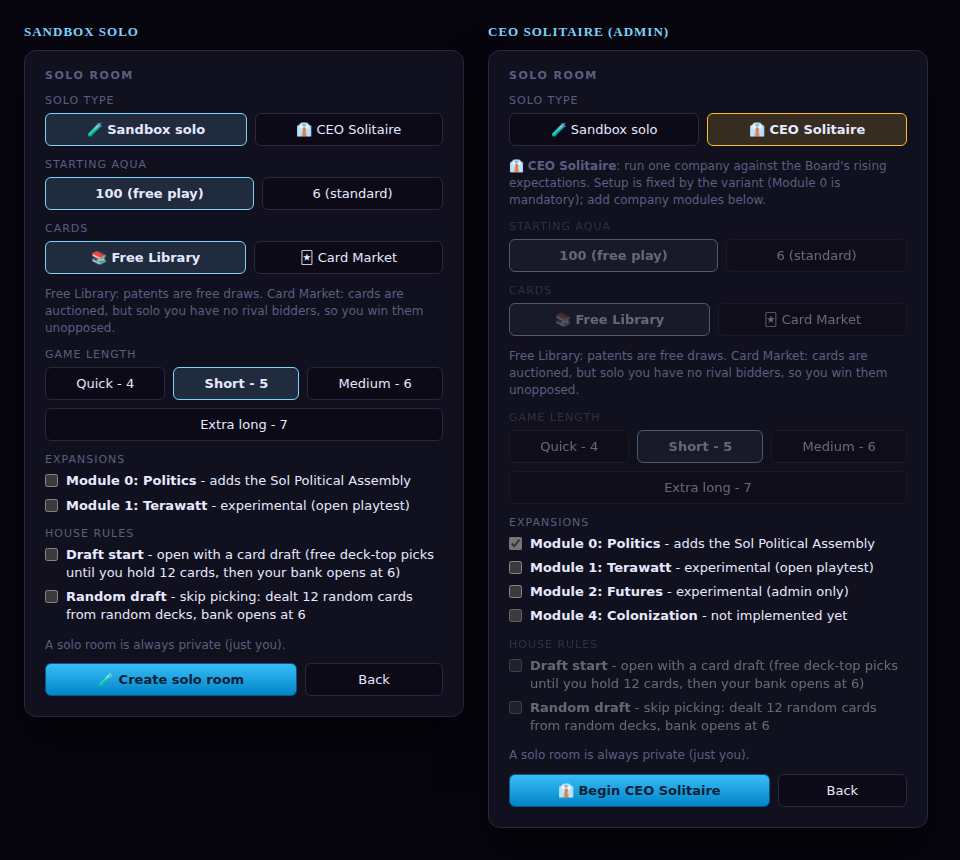
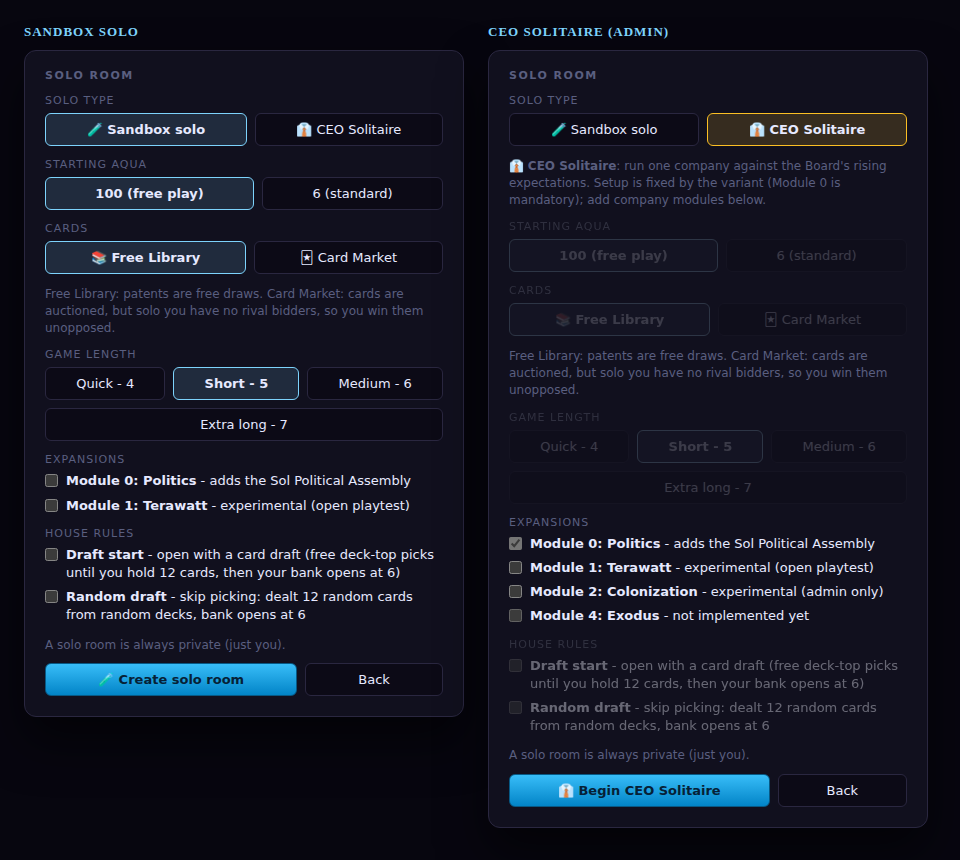
CEO Solitaire follow-ups: lock game length, rename M2/M4, fix MP-tab freighter/bernal inspect
- Wizard: CEO Solitaire now hard-locks the game-length group too (disables the
  controls, not just CSS dimming) and bumps style.css so the .is-locked rule
  loads in dev.
- Rename user-facing module labels: Module 2 -> "Colonization", Module 4 ->
  "Exodus" across the solo wizard, the multiplayer create form, the in-lobby
  settings, and the lobby module tags. (M2 still implements the Futures /
  Bernal / colonist mechanics internally; only the display name changed.)
- Multiplayer roster tab: the M1 Freighter and M2 Bernal stacks are now
  inspectable chips (with a fly-to button), opening the same read-only view the
  map-sprite tap uses. They appear only when their module is on and the player
  has produced them.

Claude-Session: https://claude.ai/code/session_01GasQXKae73oto4kmysDujH

diff --git a/js/game/browse.js b/js/game/browse.js
@@ -4742,7 +4742,7 @@ function buildMpConfigBlock(snapshot) {
   const tags = [];
   if (snapshot.m0) tags.push(['tag-m0', '🏛 M0 Politics']);
   if (snapshot.m1) tags.push(['tag-m1', '🚛 M1 Terawatt']);
-  if (snapshot.m2) tags.push(['tag-m2', '🔮 M2 Futures']);
+  if (snapshot.m2) tags.push(['tag-m2', '🔮 M2 Colonization']);
   if (snapshot.draftStart) tags.push(['tag-draft', '🃏 Draft start']);
   if (snapshot.randomDraft) tags.push(['tag-draft', '🎲 Random draft']);
   const tagWrap = document.createElement('div');
@@ -5250,6 +5250,32 @@ function buildMpPlayerDetail(host, p, isMe) {
       }));
     }
   }
+  // M1 Freighter + M2 Bernal stacks are open information too, but they only
+  // exist when their module is on AND the player has produced them, so they
+  // join the grid conditionally (a player with neither sees the original six).
+  // Each opens the same read-only inspector the map-sprite tap uses.
+  const snap = _onlineSnapshot;
+  if (snap && snap.m1 && p.freighter) {
+    const fr = p.freighter;
+    const carried = (fr.cardId ? 1 : 0) + (Array.isArray(fr.stack) ? fr.stack.length : 0);
+    grid.appendChild(mpStackChip(`🚛 Freighter`, new Array(carried).fill(0), {
+      who: p.name, hasLocation: true, findServerSite: fr.siteId || null,
+      hint: `Freighter at ${onlineSiteLabel(fr.siteId)}${(fr.tank | 0) ? `, ${fr.tank | 0} water` : ''}`,
+      onClick: () => openPlayerFreighterModalById(p.profileId),
+    }));
+  }
+  if (snap && snap.m2 && Array.isArray(p.bernals)) {
+    p.bernals.forEach((bn, i) => {
+      if (!bn) return;
+      const fig = bn.figure === 'stanford' ? 'Stanford' : 'Kalpana';
+      const carried = (bn.cardId ? 1 : 0) + (Array.isArray(bn.stack) ? bn.stack.length : 0);
+      grid.appendChild(mpStackChip(`🏙 ${fig}`, new Array(carried).fill(0), {
+        who: p.name, hasLocation: true, findServerSite: bn.siteId || null,
+        hint: `${fig} Bernal at ${onlineSiteLabel(bn.siteId)}${(bn.tank | 0) ? `, ${bn.tank | 0} water` : ''}`,
+        onClick: () => openPlayerBernalModalById(p.profileId, i),
+      }));
+    });
+  }
   host.appendChild(grid);
 
   // Hand is OPEN information (user 2026-05-29: "hand cards SHOULD NOT
@@ -5266,7 +5292,7 @@ function buildMpPlayerDetail(host, p, isMe) {
 // the stack's location. findServerSite is the server siteId (null =
 // LEO); hasLocation=false (e.g. an unbuilt outpost, or the hand)
 // renders the find button disabled. Returns the wrapper cell.
-function mpStackChip(title, slots, { who, hasLocation, findServerSite, hint, rocketCtx } = {}) {
+function mpStackChip(title, slots, { who, hasLocation, findServerSite, hint, rocketCtx, onClick } = {}) {
   const arr = Array.isArray(slots) ? slots : [];
   const cell = document.createElement('div');
   cell.className = 'mp-stack-cell';
@@ -5282,9 +5308,13 @@ function mpStackChip(title, slots, { who, hasLocation, findServerSite, hint, roc
   n.className = 'mp-stack-chip-count';
   n.textContent = String(arr.length);
   chip.append(label, n);
-  if (!arr.length) {
+  if (!arr.length && !onClick) {
     chip.classList.add('is-empty');
     chip.disabled = true;
+  } else if (onClick) {
+    // A custom opener (freighter / Bernal inspect, which build their own
+    // lead-card + cargo slot list and route to the live vs read-only view).
+    chip.addEventListener('click', onClick);
   } else {
     // The chip label is compact (e.g. "🏛 A"); the inspector header uses the
     // richer hint ("Outpost A at <site>, <n> water") when present so the modal

diff --git a/js/lobby.js b/js/lobby.js
@@ -413,7 +413,7 @@ export function moduleTagsHtml(lobby) {
   const tags = [];
   if (lobby && lobby.m0) tags.push('<span class="module-tag tag-m0">🏛 M0 Politics</span>');
   if (lobby && lobby.m1) tags.push('<span class="module-tag tag-m1">🚛 M1 Terawatt</span>');
-  if (lobby && lobby.m2) tags.push('<span class="module-tag tag-m2">🔮 M2 Futures</span>');
+  if (lobby && lobby.m2) tags.push('<span class="module-tag tag-m2">🔮 M2 Colonization</span>');
   if (lobby && lobby.draftStart) tags.push('<span class="module-tag tag-draft">🃏 Draft start</span>');
   if (lobby && lobby.randomDraft) tags.push('<span class="module-tag tag-draft">🎲 Random draft</span>');
   return tags.length ? `<span class="module-tags">${tags.join('')}</span>` : '';
@@ -1015,7 +1015,7 @@ function renderLobbySettings(lobby, iAmHost, me) {
     const mods = [];
     if (lobby.m0) mods.push('🏛 M0 Politics');
     if (lobby.m1) mods.push('🚛 M1 Terawatt');
-    if (lobby.m2) mods.push('🔮 M2 Futures');
+    if (lobby.m2) mods.push('🔮 M2 Colonization');
     if (lobby.draftStart) mods.push('🃏 Draft start');
     if (lobby.randomDraft) mods.push('🎲 Random draft');
     box.innerHTML = `<div class="lobby-settings-ro">⚙ ${escapeHtml(roundLabel)}`
@@ -1054,7 +1054,7 @@ function renderLobbySettings(lobby, iAmHost, me) {
       <span><strong>Module 1: Terawatt</strong> - experimental (open playtest)</span></label>`
     + ((me && me.isAdmin) ? `
     <label class="check-row"><input type="checkbox" id="set-m2"${lobby.m2 ? ' checked' : ''}/>
-      <span><strong>Module 2: Futures</strong> - admin only, experimental</span></label>` : '')
+      <span><strong>Module 2: Colonization</strong> - admin only, experimental</span></label>` : '')
     + `
     <div class="lobby-set-subhead">House rules</div>
     <label class="check-row"><input type="checkbox" id="set-draft"${lobby.draftStart ? ' checked' : ''}/>

diff --git a/index.html b/index.html
@@ -4,7 +4,7 @@
     <meta charset="utf-8" />
     <meta name="viewport" content="width=device-width, initial-scale=1" />
     <title>High Frontier - fan game</title>
-    <link rel="stylesheet" href="./css/style.css?v=16" />
+    <link rel="stylesheet" href="./css/style.css?v=17" />
     <link rel="stylesheet" href="./css/map.css?v=32" />
     <link rel="stylesheet" href="./css/cards.css?v=5" />
     <!--
@@ -303,7 +303,7 @@
               </label>
               <label class="check-row hidden" id="create-m2-row">
                 <input type="checkbox" id="create-m2" />
-                <span>Module 2: Futures - Futures market / completion (admin only, experimental)</span>
+                <span>Module 2: Colonization - Bernals, colonists, and Futures (admin only, experimental)</span>
               </label>
             </fieldset>
             <label class="check-row">
@@ -734,11 +734,11 @@
             </label>
             <label class="check-row hidden" id="solo-m2-row">
               <input type="checkbox" id="solo-m2" />
-              <span><strong>Module 2: Futures</strong> - experimental (admin only)</span>
+              <span><strong>Module 2: Colonization</strong> - experimental (admin only)</span>
             </label>
             <label class="check-row hidden" id="solo-m4-row">
               <input type="checkbox" id="solo-m4" disabled />
-              <span><strong>Module 4: Colonization</strong> - not implemented yet</span>
+              <span><strong>Module 4: Exodus</strong> - not implemented yet</span>
             </label>
           </div>
           <div class="solo-opt-group" data-opt="rules">

diff --git a/js/main.js b/js/main.js
@@ -533,10 +533,14 @@ function initNewGameModal() {
     const ceo = mode === 'ceo';
     if (soloOpts) soloOpts.classList.toggle('ceo-mode', ceo);
     // Lock the variant-fixed groups (everything except the solo-type toggle and
-    // the module toggles).
+    // the module toggles). Dim them (CSS .is-locked) AND hard-disable every
+    // control inside so the lock holds even if the dimming style is missing -
+    // pointer-events alone is not enough (a button stays keyboard-focusable).
     ['aqua', 'econ', 'rounds', 'rules'].forEach((opt) => {
       const g = soloOpts && soloOpts.querySelector(`.solo-opt-group[data-opt="${opt}"]`);
-      if (g) g.classList.toggle('is-locked', ceo);
+      if (!g) return;
+      g.classList.toggle('is-locked', ceo);
+      g.querySelectorAll('button, input').forEach((el) => { el.disabled = ceo; });
     });
     // Module 0 is mandatory for CEO Solitaire: check + lock it. Sandbox mode
     // restores the unlocked, host-controlled checkbox.
